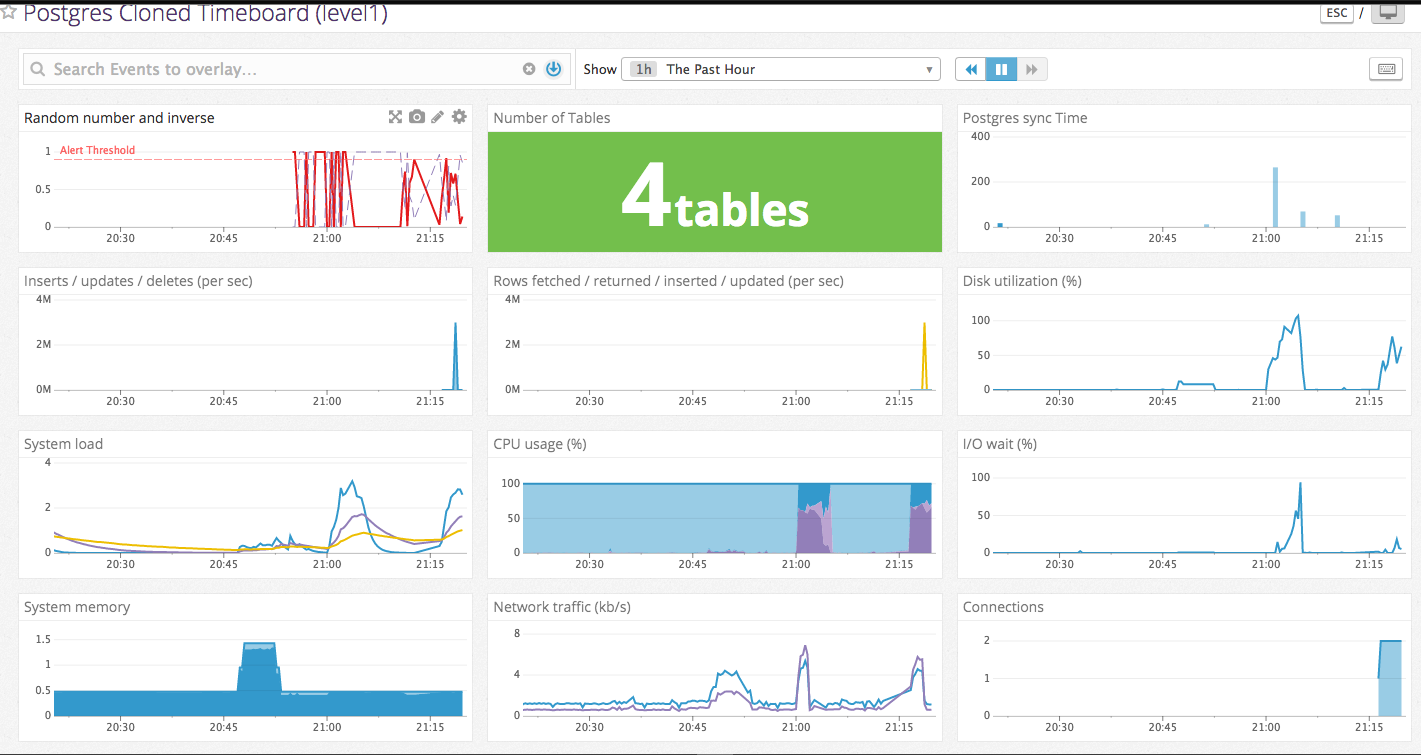
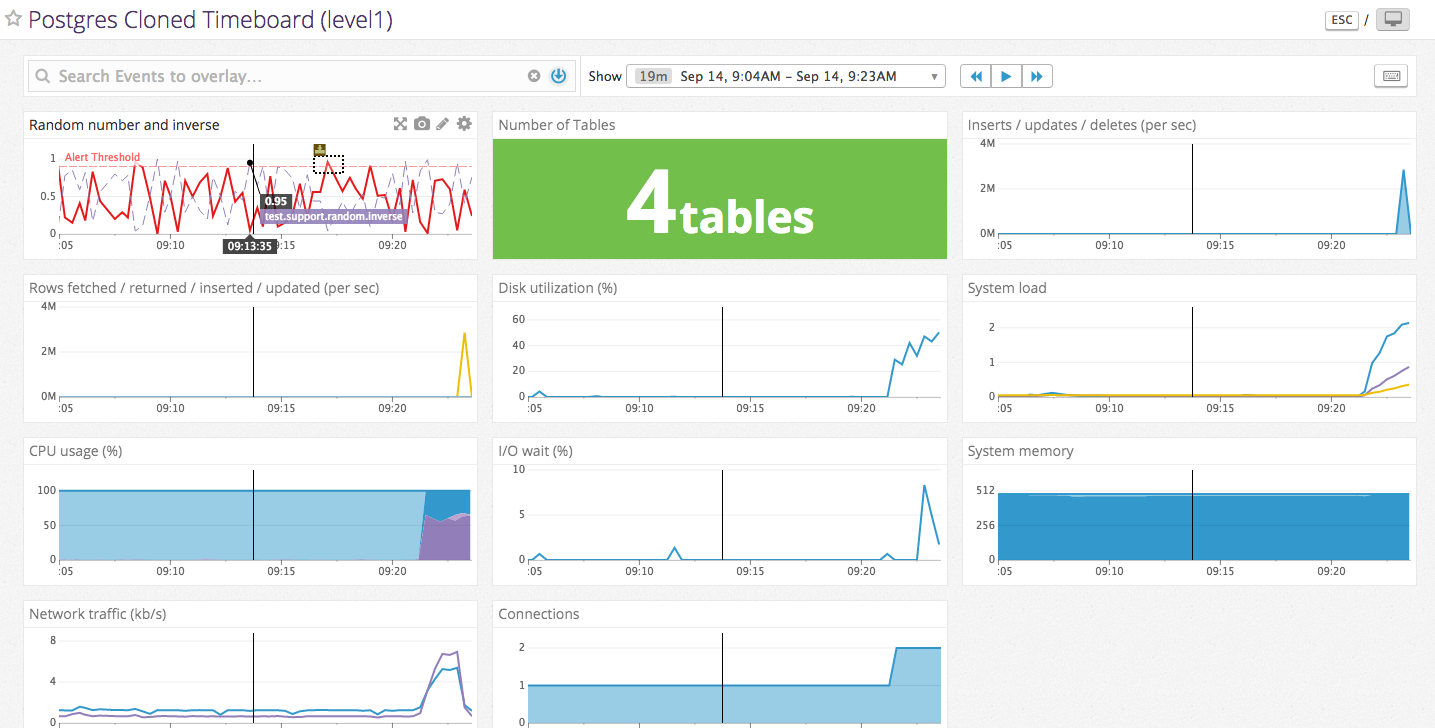
Updated answers.md and updated some screenshots

diff --git a/answers.md b/answers.md
@@ -5,25 +5,81 @@
 ### Level 0
 
 * See Vagrantfile which conatins the bento/centos-7.1 box this has psql and the datadog agent setup when ```vagrant up``` is run.  Datadog is configured with ```DD_INSTALL_ONLY=true``` to allow configs to be created prior to sending stats to Datadog.
+ 
+```bash
+DD_API_KEY=<APIKEY> DD_INSTALL_ONLY=true bash -c "$(curl -L https://raw.githubusercontent.com/DataDog/dd-agent/master/packaging/datadog-agent/source/install_agent.sh)"
+```
 
 ### Level 1
 * Agent installed via Vagrant on launch of box to ensure a stable base when other users launch the vm.
 * The agent a piece of software that is very easy to install via the commands listed on the agent screen (https://app.datadoghq.com/account/settings#agent) or via source on platforms such as Solaris(!).  Written in python, it runs within its own venv to keep it disparate from your own applications.  It consists of three main elements, a collector, dogstatsd and a forwarder.  The collector gathers system stats (cpu, memory etc) as well as metrics from integrations from an ever growing list provided by Datadog (https://www.datadoghq.com/product/integrations/).  Where these do not meet the user's needs, custom metrics may be passed to dogstatsd (http://docs.datadoghq.com/guides/metrics/).  The forwarder then collects all metrics and sends these out to Datadog in batches. The agent provides a number of tools that allow for debugging and inspection of the agen.  For example ```sudo service datadog-agent info``` provides an overview of metrics and checks collected as well as the status of the forwarder and dogstatsd elements.  ```sudo service datadog-agent jmx``` provides an invaluable tool in creating jmx based checks (jmx, tomcat, solr etc), showing the matching elements and those exceeding the 350 check limit.
-* See ```level1/HostMap.png``` (looks very lonely on its own!)
-* Postgres integration setup by creating the Datadog read-only postgres user and yaml file in ```level1/postgres.yaml```
-* Random number generator (and inverse) created in ```level1/checks.d/``` config file in ```level1/config.d``` this requires a dummy values within ```instances```
+* The screenshot below shows the single host looking very lonely on it's own.   The fill is set to %CPU utilised and the size shows used memory.
+ ![Screenshot](level1/HostMap.png)
+* Postgres integration setup by creating the Datadog read-only postgres user and yaml file postgres.yaml
+
+SQL run on Postgres server
+```sql
+ create user datadog with password '<password>';
+ grant SELECT ON pg_stat_database to datadog;
+```
+postgres.yaml
+```yaml
+init_config:
+
+instances:
+  - host: localhost
+    port: 5432
+    username: datadog
+    password: <password>
+    dbname: test
+```
+* Random number generator (and inverse) created by creating a python file within the ```checks.d``` folder and a corresponding yaml file within ```conf.d``` the yaml file requires a dummy value within ```instances```.
+
+```python
+import random
+
+from checks import AgentCheck
+
+#Third Party
+import whois
+
+class RandomGen(AgentCheck):
+    def check(self, instance):
+        num = random.randrange(0,100)/100.0
+        self.gauge('test.support.random', num)
+        self.gauge('test.support.random.inverse', 1-num)
+```
+
+```yaml
+init_config:
+
+instances:
+  # No configuration is needed for this check.
+  # A single instance needs to be defined with any value.
+  - key: value
+```
  
 ### Level 2
-* Timeboard available at (https://app.datadoghq.com/dash/183135/postgres-cloned-timeboard-level1?live=true&page=0&is_auto=false&from_ts=1473794616550&to_ts=1473798216550&tile_size=s) and screenshot found at ```level2/timeboard.png```
-* A timeboard allows the display of multiple metrics in multiple formats in a time syncronised view.  This means that each graph will show the same time period and allow for quick correlation of stats across multiple graphs.  Display timeframes are selected in a global dropdown and users may zoom in by selecting ranges directly on the graphs to allow quick access to key data.
-* A screenboard allows free flow editing and formatting and is useful for monitoring screens and presentations.  It can accomodate a variety of widgets and allows for branding by pulling in images from other sites.  Date ranges are fixed per widget and different widgets can display differing time periods.
-* Screenshot of snapshot found at ```level2/snapshot.png```
+* Timeboard available [here](https://app.datadoghq.com/dash/183135/postgres-cloned-timeboard-level1?live=true&page=0&is_auto=false&from_ts=1473794616550&to_ts=1473798216550&tile_size=s) and screenshot below
+
+![Hostmap Screenshot](level2/timeboard.png)
+
+* 
+  * A timeboard allows the display of multiple metrics in multiple formats in a time syncronised view.  This means that each graph will show the same time period and allow for quick correlation of stats across multiple graphs.  Display timeframes are selected in a global dropdown and users may zoom in by selecting ranges directly on the graphs to allow quick access to key data.
+  * A screenboard allows free flow editing and formatting and is useful for monitoring screens and presentations.  It can accomodate a variety of widgets and allows for branding by pulling in images from other sites.  Date ranges are fixed per widget and different widgets can display differing time periods.
+* Screenshot of snapshot below 
+![Snapshot Screenshot](level2/snapshot.png)
 
 ### Level 3
-* Simple Alert created at https://app.datadoghq.com/monitors#922138/edit
-* Multi alert per host can be found at https://app.datadoghq.com/monitors#922154?group=all&live=4h
-* Alert email screenshot found at ```level3/triggerEmail.png```
-* Scheduled downtime screenshot found at ```level3/downtime.png```
+* Simple Alert created [here](https://app.datadoghq.com/monitors#922138/edit)
+![Simple Alert](level3/simpleAlert.png)
+* Multi alert per host created [here](https://app.datadoghq.com/monitors#922154?group=all&live=4h)
+![Simple Alert](level3/multiAlert.png) 
+* Alert email screenshot
+![Alert email screenshot](level3/triggerEmail.png)
+* Scheduled downtime screenshot
+![Scheduled downtime screenshot](level3/downtime.png)
 
 ### Bonus
 * I've added a couple of screenshots found at ```bonus/``` to demonstrate a more data-rich hostmap and screenboard that I have put together at work
+
